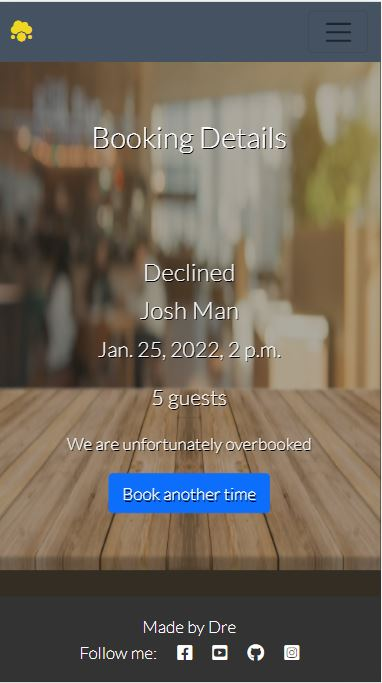
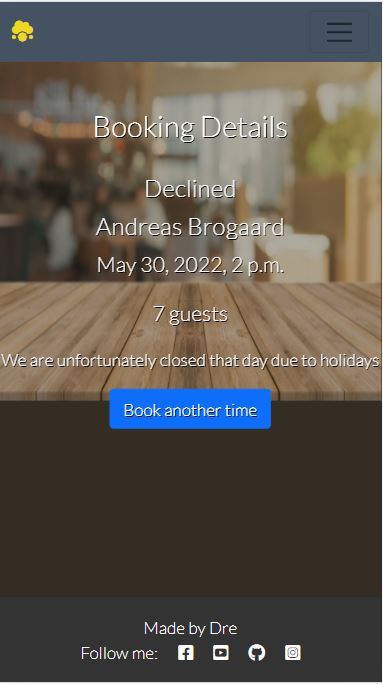
Update booking details style, update readme accord.

diff --git a/static/css/style.css b/static/css/style.css
@@ -246,6 +246,13 @@ a:hover, a:active {
     background-color: #55402d;
 } */
 
+.booking-outer {
+    height: 570px;
+    width: 100%;
+    overflow: hidden;
+    margin-bottom: 30px;
+}
+
 .booking-pending {
     background-color: #55402d;
 }
@@ -404,6 +411,10 @@ a:hover, a:active {
         height: 500px;
     }
 
+    .booking-outer {
+        height: 500px;
+    }
+
     #hero-image {
         height: 500px;
     }
@@ -443,10 +454,25 @@ a:hover, a:active {
             top: 300px;
         }
     }
+
+    @keyframes booking-animation {
+        from {
+            opacity: 0;
+            top: 195px;
+        }
+    
+        to {
+            opacity: 1;
+            top: 195px;
+        }
+    }
 }
 
 @media screen and (max-width: 576px) {
     
+    .booking-outer {
+        height: 430px;
+    }
     .icon {
         font-size: 25px;
     }
@@ -514,12 +540,12 @@ a:hover, a:active {
     @keyframes booking-animation {
         from {
             opacity: 0;
-            top: 125px;
+            top: 120px;
         }
     
         to {
             opacity: 1;
-            top: 125px;
+            top: 120px;
         }
     }
 }

diff --git a/templates/booking_detail.html b/templates/booking_detail.html
@@ -2,7 +2,7 @@
 {% load static %}
 
 {% block content %}
-<section class="hero-outer">
+<section class="booking-outer">
     <img class="img" id="hero-image" src="{% static 'images/site/hero-pic.webp' %}"
         alt="Fresh ingredients items on a black surface">
     <div class="booking-cover-text">

diff --git a/templates/booking_detail_previous.html b/templates/booking_detail_previous.html
@@ -2,7 +2,7 @@
 {% load static %}
 
 {% block content %}
-<section class="hero-outer">
+<section class="booking-outer">
     <img class="img" id="hero-image" src="{% static 'images/site/hero-pic.webp' %}"
         alt="Fresh ingredients items on a black surface">
     <div class="booking-cover-text">

diff --git a/README.md b/README.md
@@ -177,7 +177,6 @@ The development rationale for this project is to create an application that meet
     * Design in line with the other sites. Header says "Profile" and underneath the image is a form. The form has five fields: "Username", "First name", "Last name", "Email", and "Password". All except for password are mandatory. Underneath the form is a paragraph with a link to change the password. Underneath the form is a blue button "Save" which will update the details of the profile. Updating name details here will allow the user to make reservations.
         * ![Profile page - large](/static/images/readme-pictures/profile-large.JPG)
         * ![Profile page - top mobile](/static/images/readme-pictures/profile-top-mobile.JPG)
-        * ![Profile page - bottom mobile](/static/images/readme-pictures/profile-bottom-mobile.JPG)
 
 * __Log out page__:
     * Very simple design in line with the other allauth pages. Header "Sign out". Underneath a paragraph "Are you sure you want to sign out?". Underneath a blue button "Sign Out".
